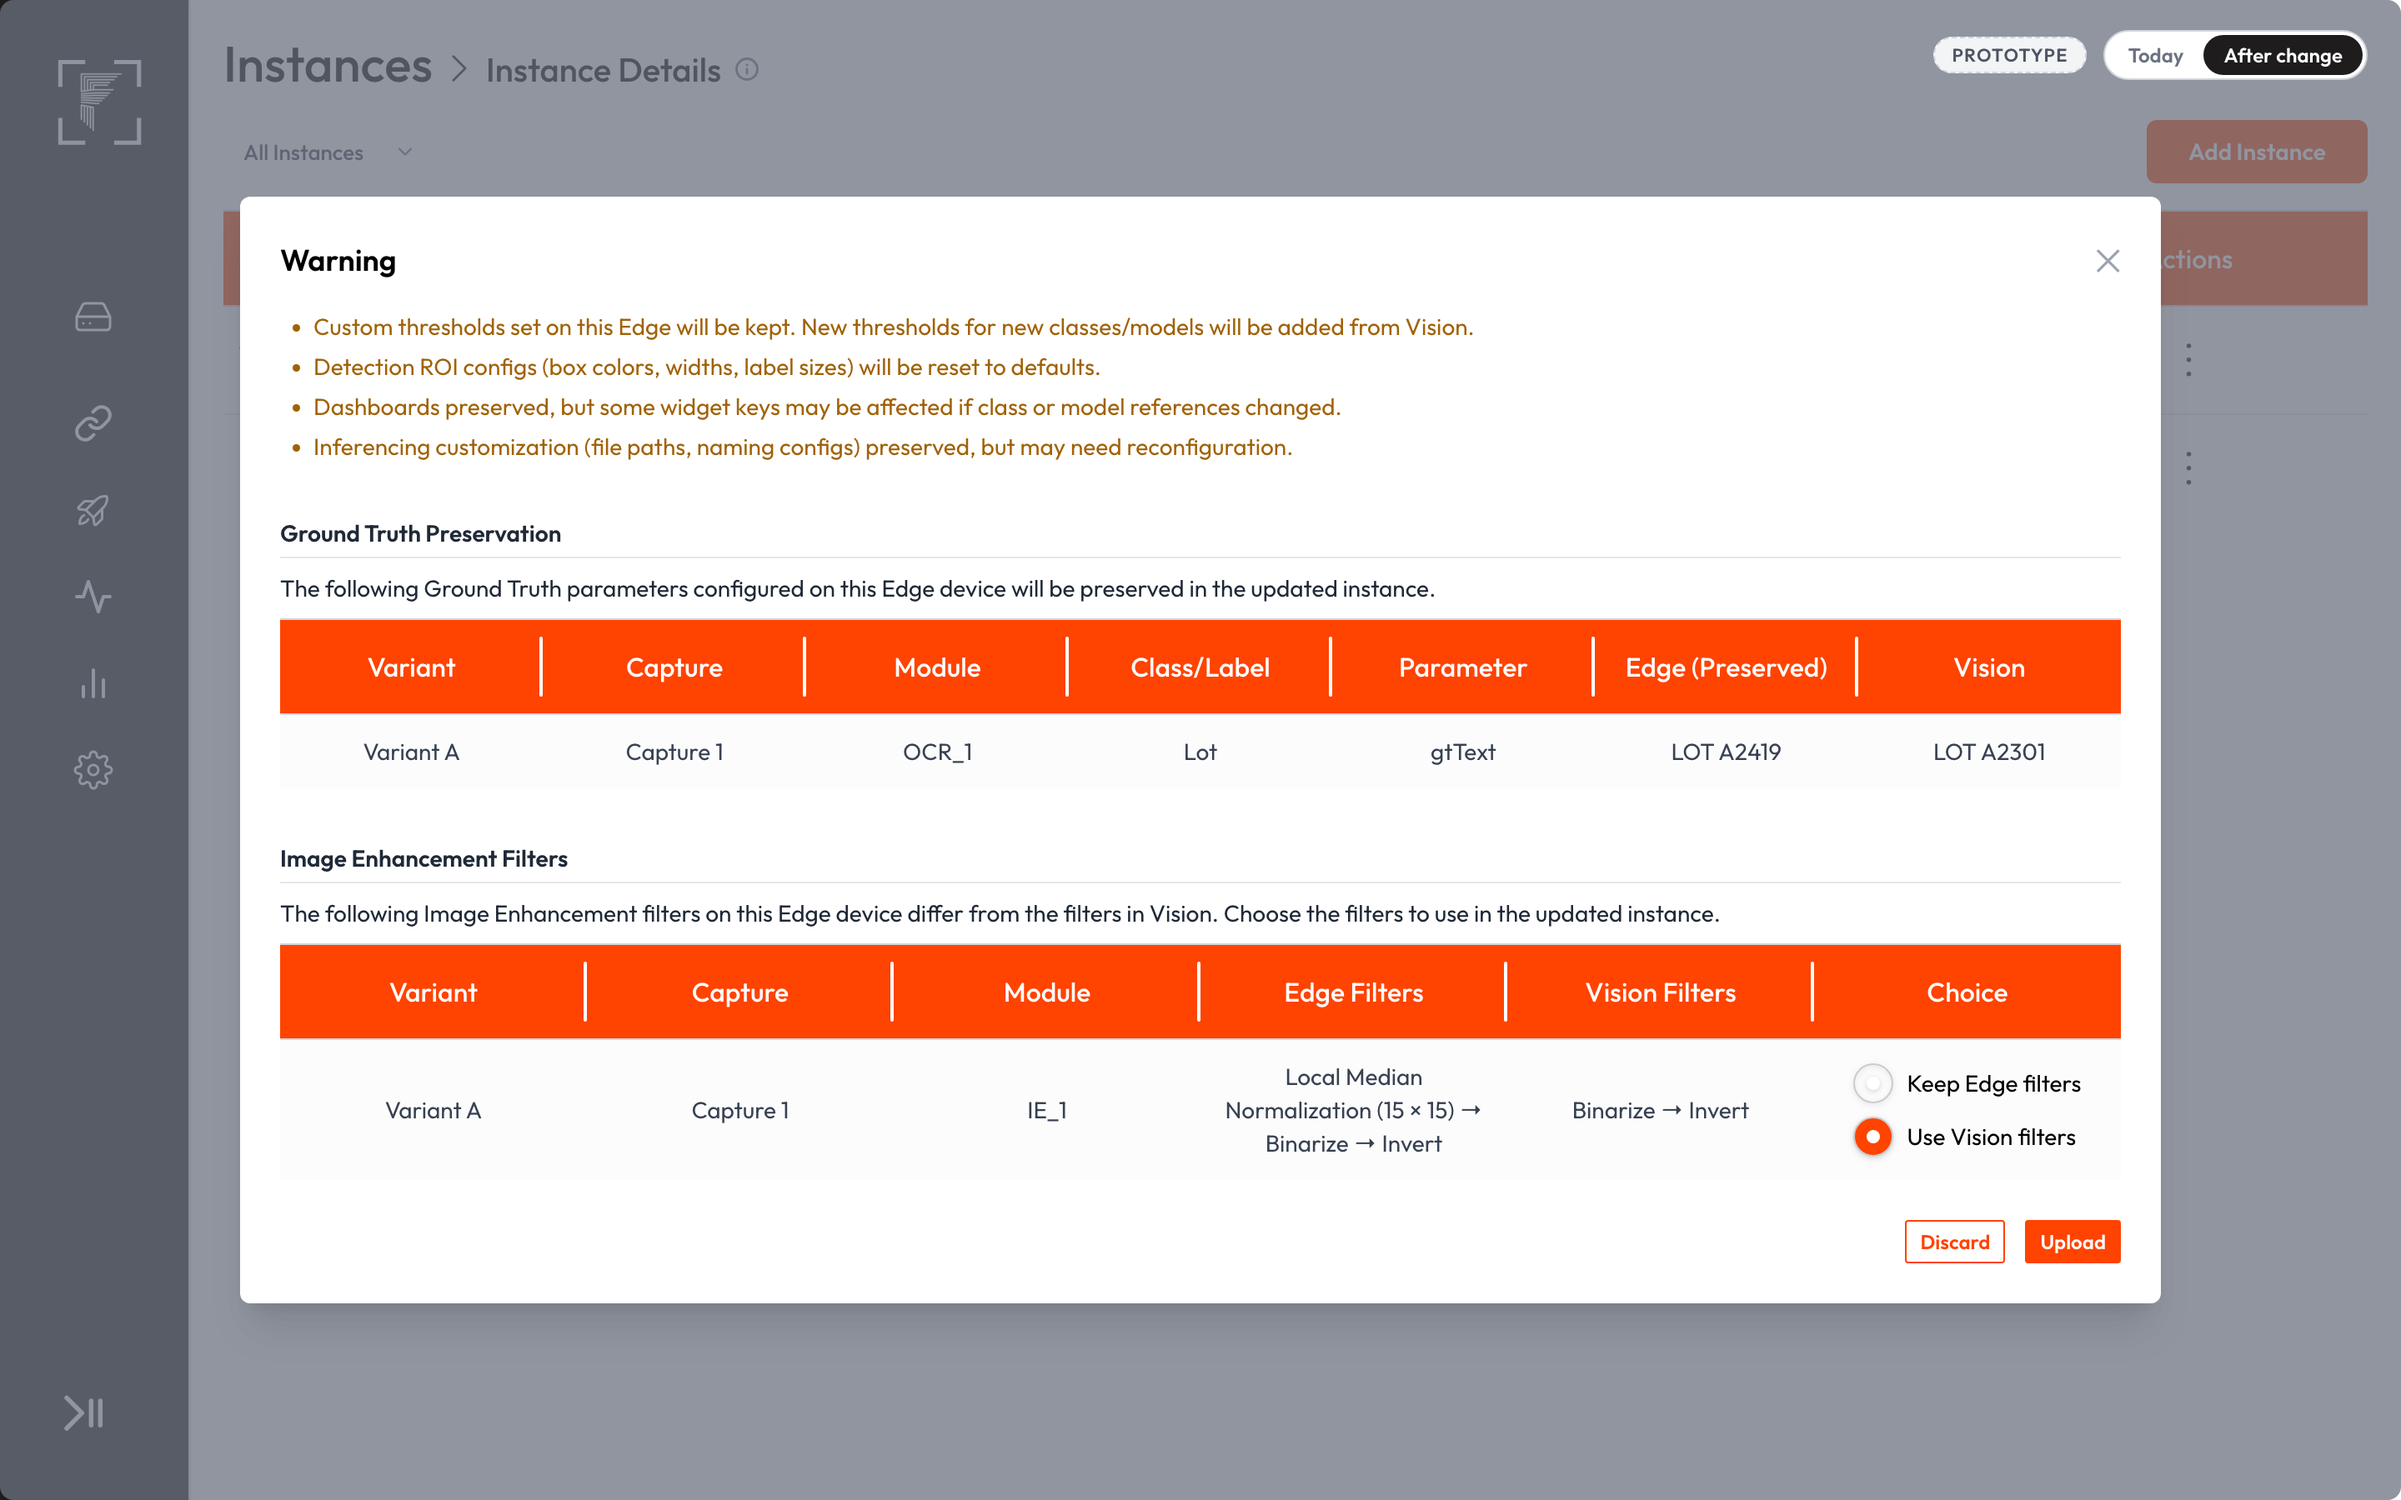
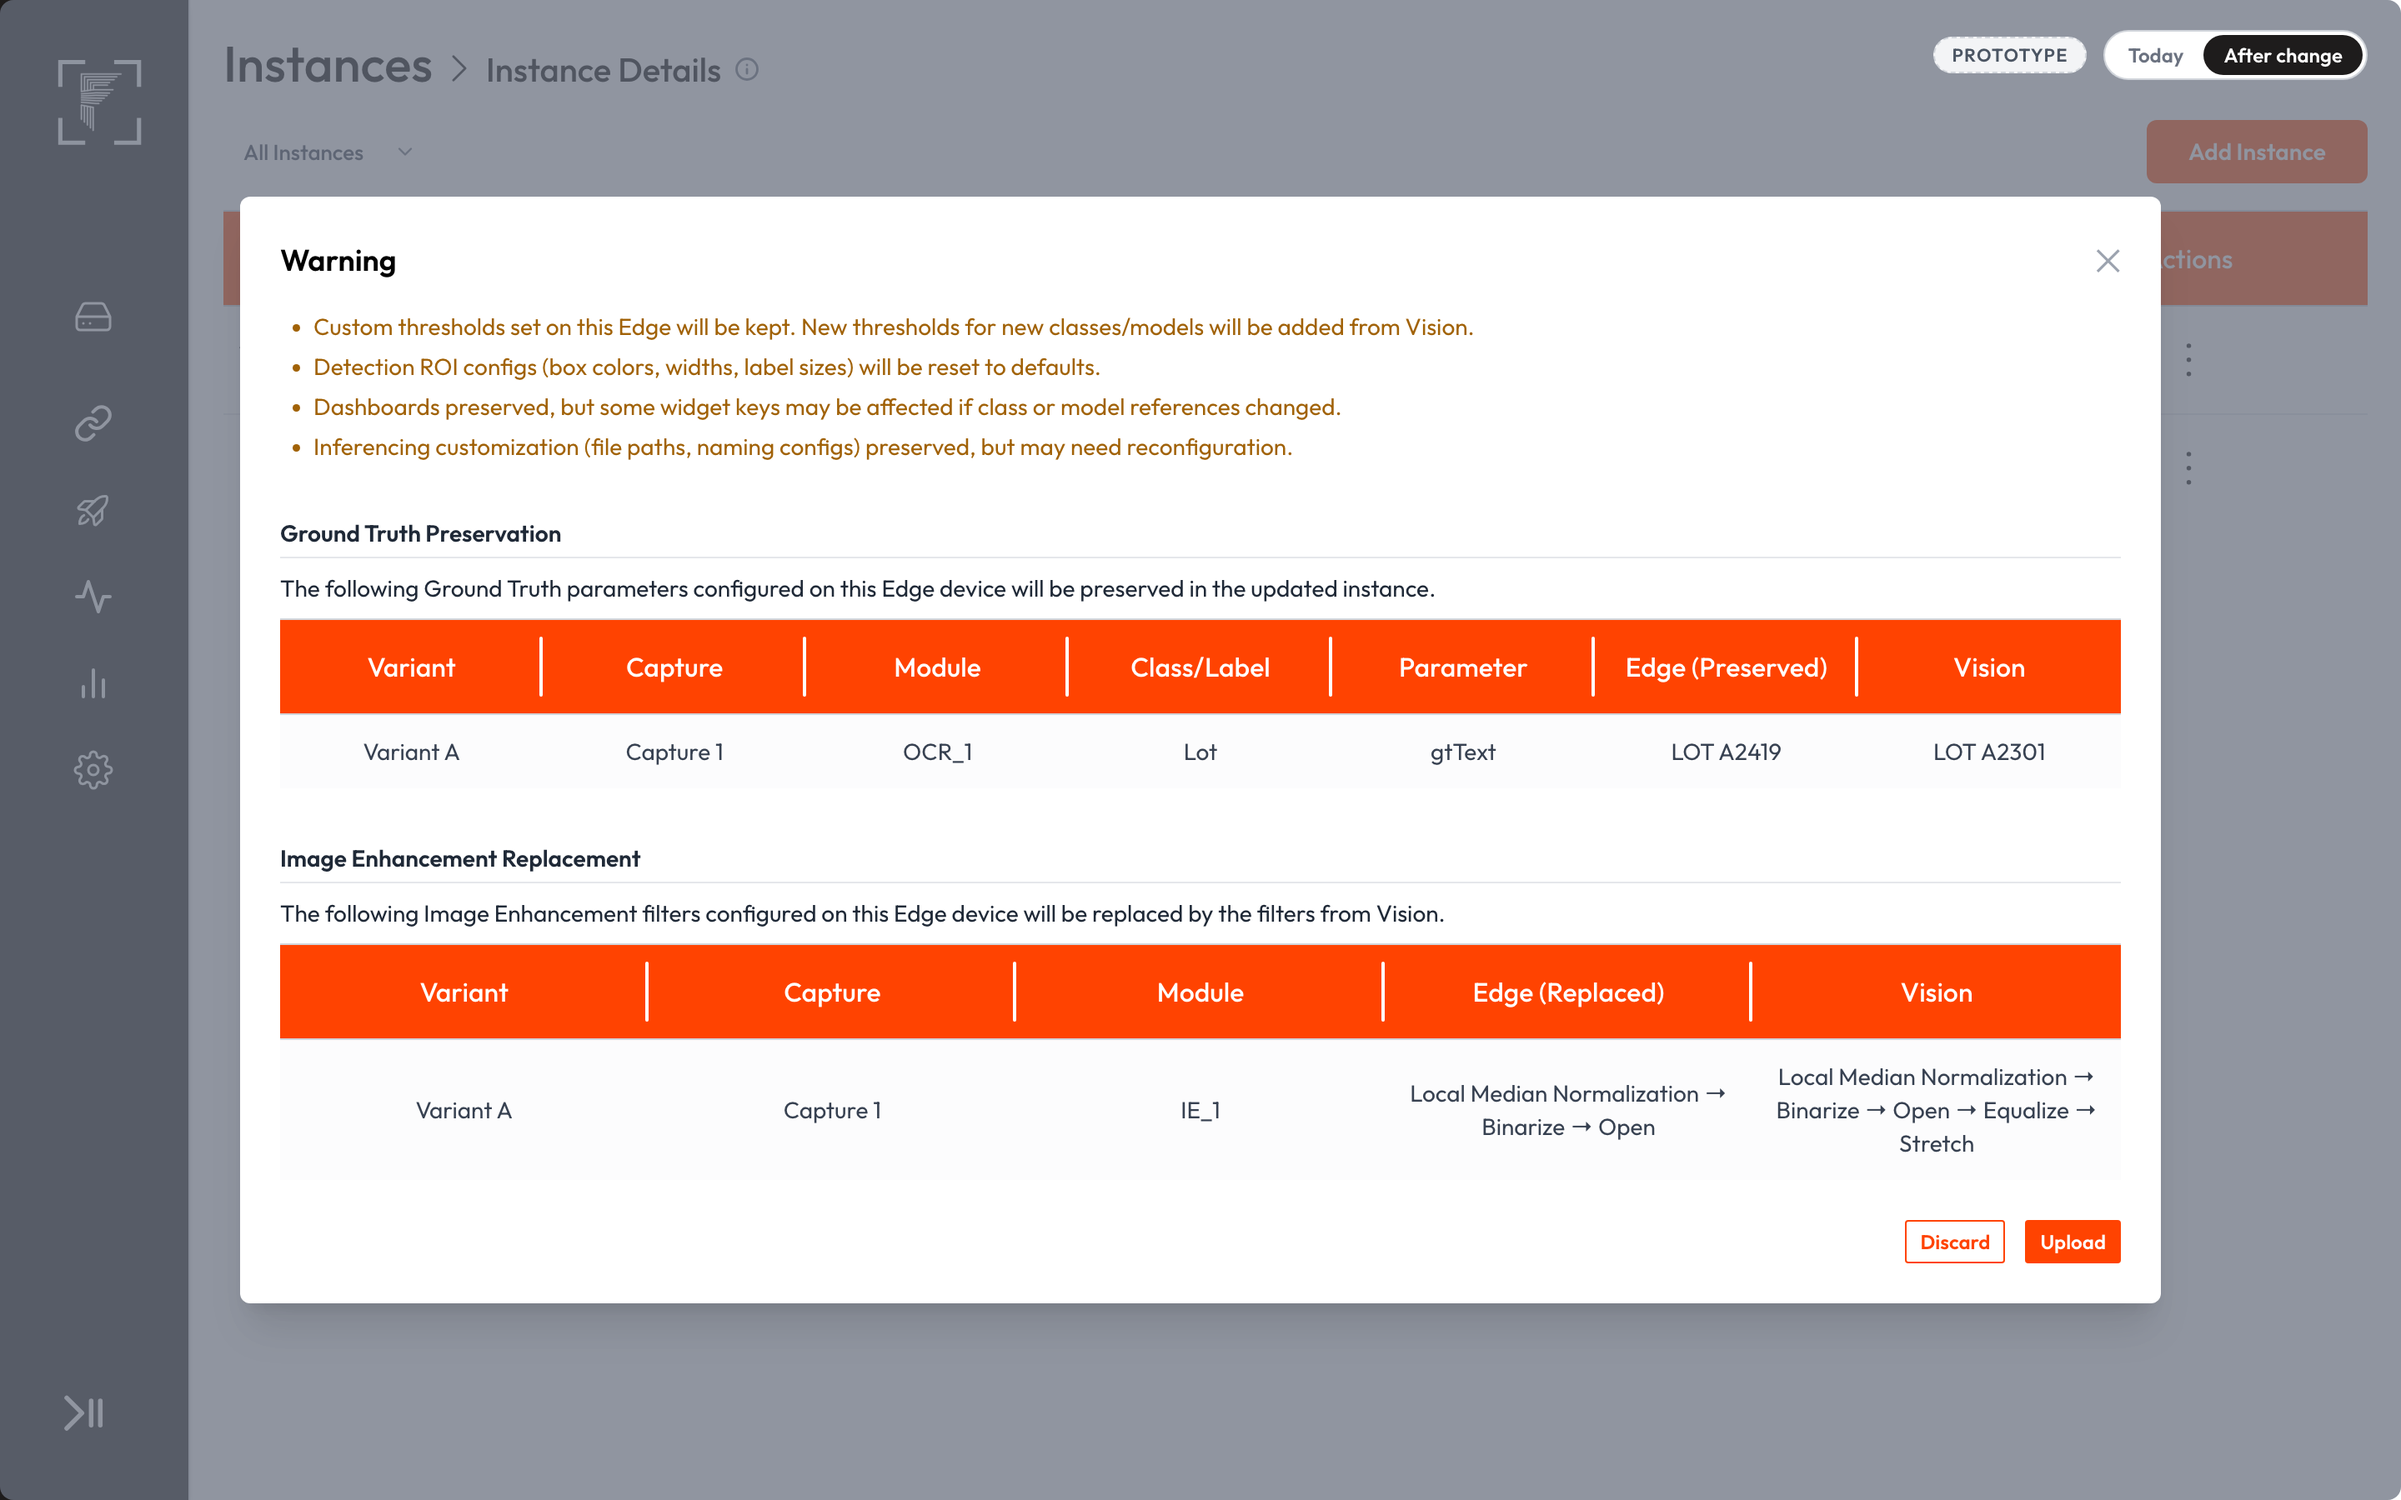
Update pop-up: information-only Image Enhancement Replacement (Vision wins)

diff --git a/edge-instance-update.html b/edge-instance-update.html
@@ -138,15 +138,6 @@ a.sb-item:hover{background:rgb(255 255 255/.2)}
 .iw-sec td{padding:12px 0!important;color:#374151;text-align:center}
 .iw-f{margin-left:auto;display:flex;align-items:center;gap:12px;padding-top:8px}
 
-/* Keep Edge filters / Use Vision filters: shared/ui/Radio.jsx in the FilePaths.jsx:175-196 layout */
-.ch{display:flex;flex-direction:column;gap:8px;align-items:flex-start}
-.ch-o{display:flex;align-items:center;gap:8px;cursor:pointer}
-.ch-o span{font-size:14px;line-height:20px;color:#000;white-space:nowrap}
-.rd{width:24px;height:24px;flex-shrink:0;border-radius:9999px;display:flex;align-items:center;justify-content:center;border:1px solid #ccc;cursor:pointer;
-  color:#fff;filter:drop-shadow(0 1px 2px rgb(0 0 0/.1)) drop-shadow(0 1px 1px rgb(0 0 0/.06))}
-.rd:hover{filter:drop-shadow(0 20px 13px rgb(0 0 0/.03)) drop-shadow(0 8px 5px rgb(0 0 0/.08))}
-.rd.on{background:#ff4301}
-.rd i{width:8px;height:8px;background:#fff;border-radius:9999px}
 .iw-sec td.fl{padding:12px 8px!important}
 
 /* ProjectCreateLoader (shared/ui/ProjectCreateLoader.jsx + shared/styles/loader.css) */
@@ -370,13 +361,15 @@ a.sb-item:hover{background:rgb(255 255 255/.2)}
   // null = no Edge changes (the Edge runs Vision's chain).
   var KEY = 'ie-proto:v1';
   var DEFAULT_CHAIN = [{ f: 'binarize' }, { f: 'invert' }];
+  // "ieBase" (written by this page on Upload) = the Vision values this Edge received at its last update, so a value
+  // counts as tuned on Edge when it differs from that base, and as changed in Vision when Vision's differs from it.
   // Standalone samples (nothing stored by the flow).
-  // Values only: Binarize and Invert have no values, so this update's IE_1 also has an Open step added in Vision (3 x 3),
-  // which this Edge tuned to 5 x 5.
+  // Values only: Binarize and Invert have no values, so this update's IE_1 also has an Open step (3 x 3 in Vision,
+  // unchanged since the last update), which this Edge tuned to 5 x 5.
   var SAMPLE_VISION = DEFAULT_CHAIN.concat([{ f: 'open', p: { rows: 3, cols: 3 } }]);
-  // ?state=chain-changed: the filters were changed on this Edge (Local Median Normalization 15 x 15 added and moved to
-  // step 1, as in edge-emc.html?state=edit-chain); Vision still has the default chain.
-  var EDGE_EDITED = [{ f: 'localmediannorm', p: { rows: 15, cols: 15 } }, { f: 'binarize' }, { f: 'invert' }];
+  // ?state=chain-changed: Vision added Equalize and Stretch after Open; Vision's list replaces this Edge's.
+  var CC_EDGE = [{ f: 'localmediannorm', p: { rows: 15, cols: 15 } }, { f: 'binarize' }, { f: 'open', p: { rows: 3, cols: 3 } }];
+  var CC_VISION = CC_EDGE.concat([{ f: 'equalize' }, { f: 'stretch' }]);
 
   function readStore() { try { return JSON.parse(localStorage.getItem(KEY) || 'null') || {}; } catch (e) { return {}; } }
   function validChain(c) { return Array.isArray(c) && c.length > 0 && c.every(function (s) { return s && FILTERS[s.f]; }); }
@@ -392,14 +385,14 @@ a.sb-item:hover{background:rgb(255 255 255/.2)}
     });
   }
 
-  var visionChain, edgeChain, chainChanged, choice = 'vision';
+  var visionChain, edgeChain, baseChain, chainChanged;
   function computeChains() {
     var st = readStore(), stored = validChain(st.chain);
     var hasEdge = validChain(st.edgeChain);
     if (state === 'chain-changed') {
-      visionChain = stored ? st.chain : DEFAULT_CHAIN;
+      visionChain = stored ? st.chain : CC_VISION;
       edgeChain = hasEdge && !sameList(st.edgeChain, visionChain) ? st.edgeChain
-        : !sameList(EDGE_EDITED, visionChain) ? EDGE_EDITED : DEFAULT_CHAIN;
+        : !sameList(CC_EDGE, visionChain) ? CC_EDGE : DEFAULT_CHAIN;
     } else if (stored) {
       // In the flow: compare what is really stored. edgeChain = null means no Edge changes (values-only, nothing tuned).
       visionChain = st.chain;
@@ -409,6 +402,25 @@ a.sb-item:hover{background:rgb(255 255 255/.2)}
       edgeChain = tuned(SAMPLE_VISION);
     }
     chainChanged = !sameList(edgeChain, visionChain);
+    // Without a recorded base (or a different list) the Edge is taken to have received Vision's current values.
+    baseChain = validChain(st.ieBase) && sameList(st.ieBase, edgeChain) ? st.ieBase : visionChain;
+  }
+  // Same list: a value tuned on Edge is kept unless Vision changed it too (Vision's changes win); every other value
+  // takes Vision's. Returns the merged chain and the kept values.
+  function mergeValues() {
+    var kept = [];
+    var merged = edgeChain.map(function (s, i) {
+      var defs = PARAMS[FILTERS[s.f].p], o = clone(visionChain[i]);
+      if (!defs) return o;
+      o.p = {};
+      defs.forEach(function (d) {
+        var e = val(s, d), v = val(visionChain[i], d), b = val(baseChain[i], d);
+        if (e !== b && v === b) { o.p[d.k] = e; if (e !== v) kept.push({ i: i, f: s.f, d: d, e: e, v: v }); }
+        else o.p[d.k] = v;
+      });
+      return o;
+    });
+    return { chain: merged, kept: kept };
   }
 
   // ---------- Upload validation result (frinksedge-deployment-backend service/uploadValidation.ts) ----------
@@ -425,26 +437,13 @@ a.sb-item:hover{background:rgb(255 255 255/.2)}
   function gtDiffs() {
     var rows = [OCR_DIFF];
     if (mode === 'after' && !chainChanged) {
-      edgeChain.forEach(function (s, i) {
-        var defs = PARAMS[FILTERS[s.f].p];
-        if (!defs) return;
-        defs.forEach(function (d) {
-          var e = val(s, d), v = val(visionChain[i], d);
-          if (e !== v) rows.push({ variantName: 'Variant A', captureName: 'Capture 1', moduleName: 'IE_1', className: 'Step ' + (i + 1) + ' · ' + FILTERS[s.f].name, parameter: d.label, existingValue: e, incomingValue: v });
-        });
+      mergeValues().kept.forEach(function (k) {
+        rows.push({ variantName: 'Variant A', captureName: 'Capture 1', moduleName: 'IE_1', className: 'Step ' + (k.i + 1) + ' · ' + FILTERS[k.f].name, parameter: k.d.label, existingValue: k.e, incomingValue: k.v });
       });
     }
     return rows;
   }
-  // One filter list as text, with its values: "Local Median Normalization (15 × 15) → Binarize → Invert".
-  function listText(c) {
-    return c.map(function (s) {
-      var F = FILTERS[s.f], defs = PARAMS[F.p];
-      if (!defs) return F.name;
-      var v = defs.map(function (d) { return val(s, d); });
-      return F.name + ' (' + (F.p === 'kernel' ? v.join(' × ') : v.join('–')) + ')';
-    }).join(' → ');
-  }
+  function listText(c) { return c.map(function (s) { return FILTERS[s.f].name; }).join(' → '); }
 
   // ---------- Table (shared/ui/Table.jsx) ----------
   var INFO = function (tip) {
@@ -556,19 +555,12 @@ a.sb-item:hover{background:rgb(255 255 255/.2)}
       '</div>';
 
     if (mode === 'after' && chainChanged) {
-      h += '<div class="iw-sec"><h3>Image Enhancement Filters</h3>' +
-        '<p>The following Image Enhancement filters on this Edge device differ from the filters in Vision. Choose the filters to use in the updated instance.</p>' +
-        tableHTML(['Variant', 'Capture', 'Module', 'Edge Filters', 'Vision Filters', 'Choice'],
+      h += '<div class="iw-sec"><h3>Image Enhancement Replacement</h3>' +
+        '<p>The following Image Enhancement filters configured on this Edge device will be replaced by the filters from Vision.</p>' +
+        tableHTML(['Variant', 'Capture', 'Module', 'Edge (Replaced)', 'Vision'],
           '<tr class="odd">' + ['Variant A', 'Capture 1', 'IE_1'].map(function (c) { return '<td><div class="td-in">' + esc(c) + '</div></td>'; }).join('') +
           '<td class="fl"><div class="td-in">' + esc(listText(edgeChain)) + '</div></td>' +
-          '<td class="fl"><div class="td-in">' + esc(listText(visionChain)) + '</div></td>' +
-          '<td><div class="td-in"><div class="ch" role="radiogroup" aria-label="IE_1 filters">' +
-            [['edge', 'Keep Edge filters'], ['vision', 'Use Vision filters']].map(function (o) {
-              var on = choice === o[0];
-              return '<div class="ch-o" data-choice="' + o[0] + '" role="radio" aria-checked="' + on + '" tabindex="0">' +
-                '<label class="rd' + (on ? ' on' : '') + '"><i></i></label><span>' + o[1] + '</span></div>';
-            }).join('') +
-          '</div></div></td></tr>', true) +
+          '<td class="fl"><div class="td-in">' + esc(listText(visionChain)) + '</div></td></tr>', true) +
         '</div>';
     }
 
@@ -582,28 +574,19 @@ a.sb-item:hover{background:rgb(255 255 255/.2)}
   function closeWarning() { document.getElementById('modalRoot').innerHTML = ''; }
 
   document.getElementById('modalRoot').addEventListener('click', function (e) {
-    var o = e.target.closest('[data-choice]');
-    if (o) {
-      choice = o.getAttribute('data-choice');
-      document.querySelectorAll('#modalRoot [data-choice]').forEach(function (x) {
-        var on = x.getAttribute('data-choice') === choice;
-        x.setAttribute('aria-checked', String(on));
-        x.querySelector('.rd').classList.toggle('on', on);
-      });
-      return;
-    }
     var b = e.target.closest('[data-w]');
     if (!b) return;
     closeWarning();
     if (b.getAttribute('data-w') !== 'upload') return;
-    // Upload. Same filter list: values tuned on Edge are kept, the others take Vision's.
-    // Different lists: Keep Edge filters keeps Edge's list and values; Use Vision filters takes Vision's (no Edge changes).
+    // Upload. Same filter list: values tuned on Edge are kept unless Vision changed them too; the others take Vision's.
+    // Different lists: Vision's list and values replace Edge's (no Edge changes left).
     if (mode === 'after') {
       try {
         var st = readStore();
         st.chain = visionChain;
-        if (chainChanged) st.edgeChain = choice === 'edge' ? edgeChain : null;
-        else st.edgeChain = JSON.stringify(edgeChain) === JSON.stringify(visionChain) ? null : edgeChain;
+        st.ieBase = visionChain;
+        if (chainChanged) st.edgeChain = null;
+        else { var merged = mergeValues().chain; st.edgeChain = JSON.stringify(merged) === JSON.stringify(visionChain) ? null : merged; }
         if (!st.areaName) st.areaName = 'Enhanced Search Area 1';
         if (!st.moduleName) st.moduleName = 'IE_1';
         localStorage.setItem(KEY, JSON.stringify(st));
@@ -619,10 +602,7 @@ a.sb-item:hover{background:rgb(255 255 255/.2)}
   window.addEventListener('storage', function (e) {
     if ((e.key === null || e.key === KEY) && document.querySelector('#modalRoot .iw')) openWarning();
   });
-  document.getElementById('modalRoot').addEventListener('keydown', function (e) {
-    var o = e.target.closest('[data-choice]');
-    if (o && (e.key === ' ' || e.key === 'Enter')) { e.preventDefault(); o.click(); }
-  });
+
   window.addEventListener('resize', sizeColumns);
 
   // ---------- Prototype switcher (hidden inside the workflow shell, whose own toggle passes ?mode=) ----------
